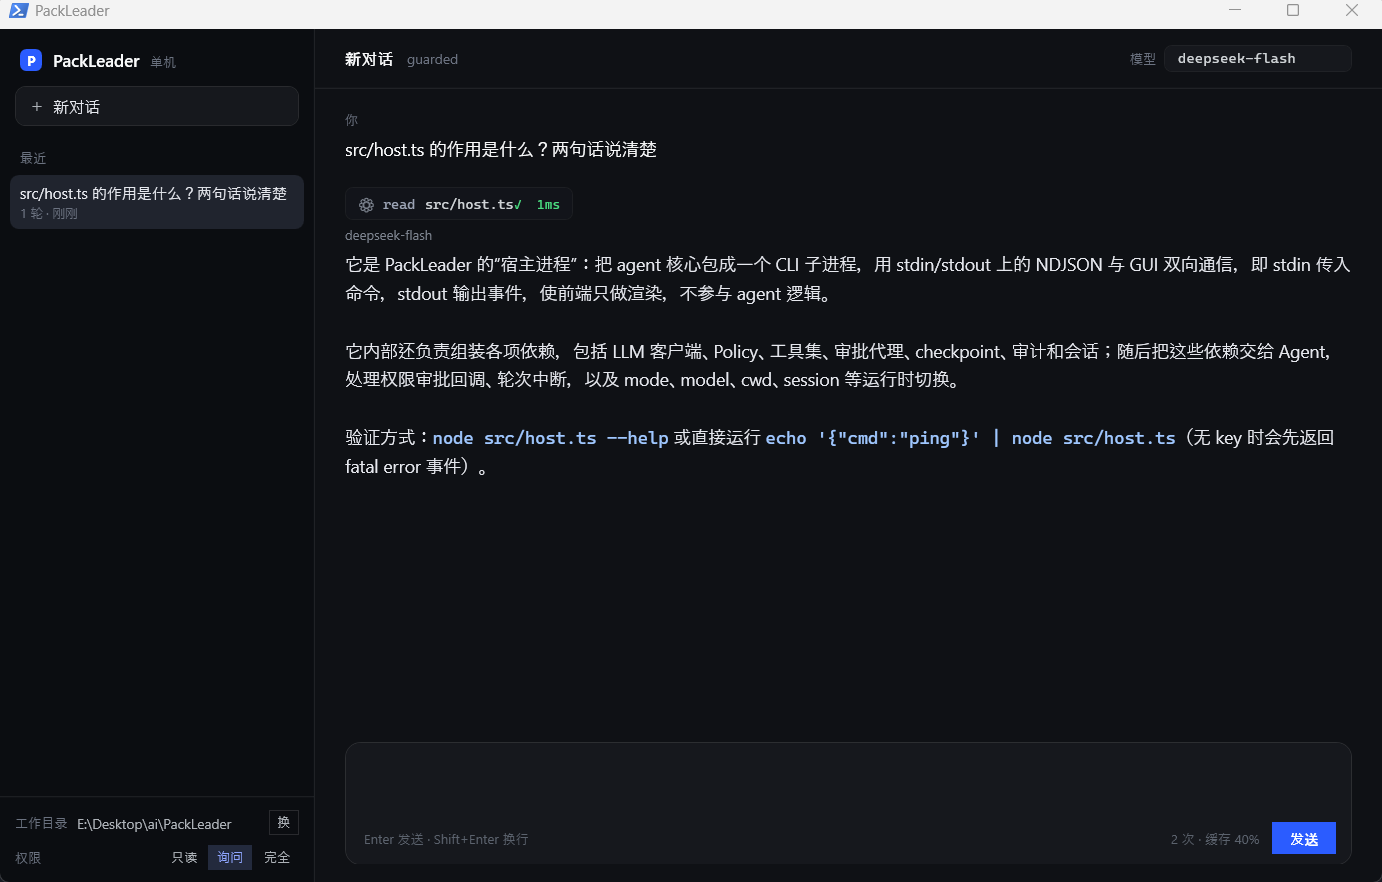
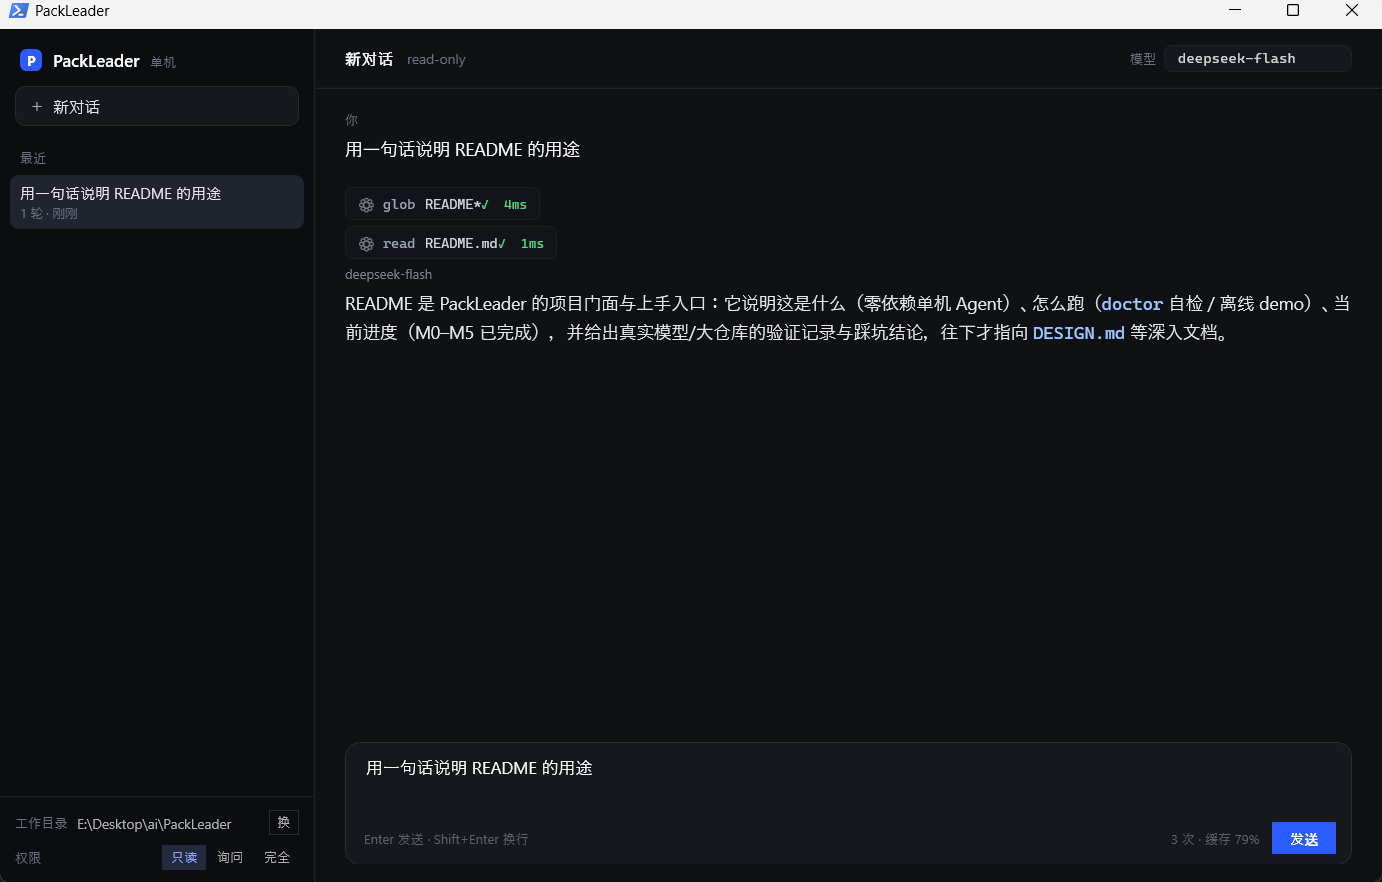
feat(gui): 代码块卡片 + ↑↓ 输入历史
代码块：回答流式阶段仍是纯文本，结束时整体重绘成「段落 + 代码块卡片」。
卡片是深底 + 细描边 + 圆角 + 语言标签（`	s 取 ts），等宽 12.5px、行高 19。
为此把回答的正文宿主改成独立的 StackPanel，流式写它的 TextBlock，结束时清空重绘。

输入历史：↑↓ 在单行输入内容时翻历史，多行时不抢键（留给光标移动）。
连续重复的不重复记录，↓ 到底清空输入框。

又一个平台坑：TextBox 会自己处理方向键并在冒泡阶段把事件标记 Handled，
挂在 Add_KeyDown 上的处理器根本不会执行（回车也是同样原因）。
改用 Add_PreviewKeyDown（隧道阶段），并用 SendKeys 真按键验证通过。

diff --git a/README.md b/README.md
@@ -112,16 +112,20 @@ node src/cli.ts undo --turn 3
 配色直接取自 DSH 自己的 CSS 变量（`#0f1115` 底 / `#f9fafb` 主文字 / 12% 白描边），
 字号取自它的主题插件（正文 14px、代码小 1px、行高 1.6）。
 
-窗口能做：左侧会话列表（点击切换）、流式回答、Markdown 渲染（粗体 / 行内代码 / 代码块 / 标题 / 列表）、
+窗口能做：左侧会话列表（点击切换）、流式回答、Markdown 渲染（粗体 / 行内代码 / 标题 / 列表 / 代码块卡片）、
 工具行（`⚙ read src/host.ts ✓ 1ms`）、审批卡片（允许一次 / 拒绝 / 看参数）、权限三档、
-换模型、换目录、新对话、停止、本会话用量与缓存命中率、空状态示例问题。
+换模型、换目录、新对话、停止、本会话用量与缓存命中率、空状态示例问题、↑↓ 翻输入历史。
+
+代码块渲染成带语言标签的卡片（`docs/code-block.png`）：
+
+![代码块](docs/code-block.png)
 
 架构上一句话：**窗口只负责画，agent 只负责算**，中间是 JSON 行协议（`src/host.ts`），
 所以以后把引擎换成 Rust、或者把窗口换成别的，两边都不用动。
 
 依赖前提：机器上要有 **Node ≥ 22.18**。要"免装 Node 且仍然原生"，只能把引擎移植成 Rust/C#（见 [ROADMAP.md](ROADMAP.md) 的体积测算）。
 
-已知没做：diff 预览、输入历史（↑↓）、代码块底色、窗口无边框自绘标题栏。
+已知没做：diff 预览、窗口无边框自绘标题栏、代码块横向滚动与复制按钮。
 
 ### 命令行交互模式
 
